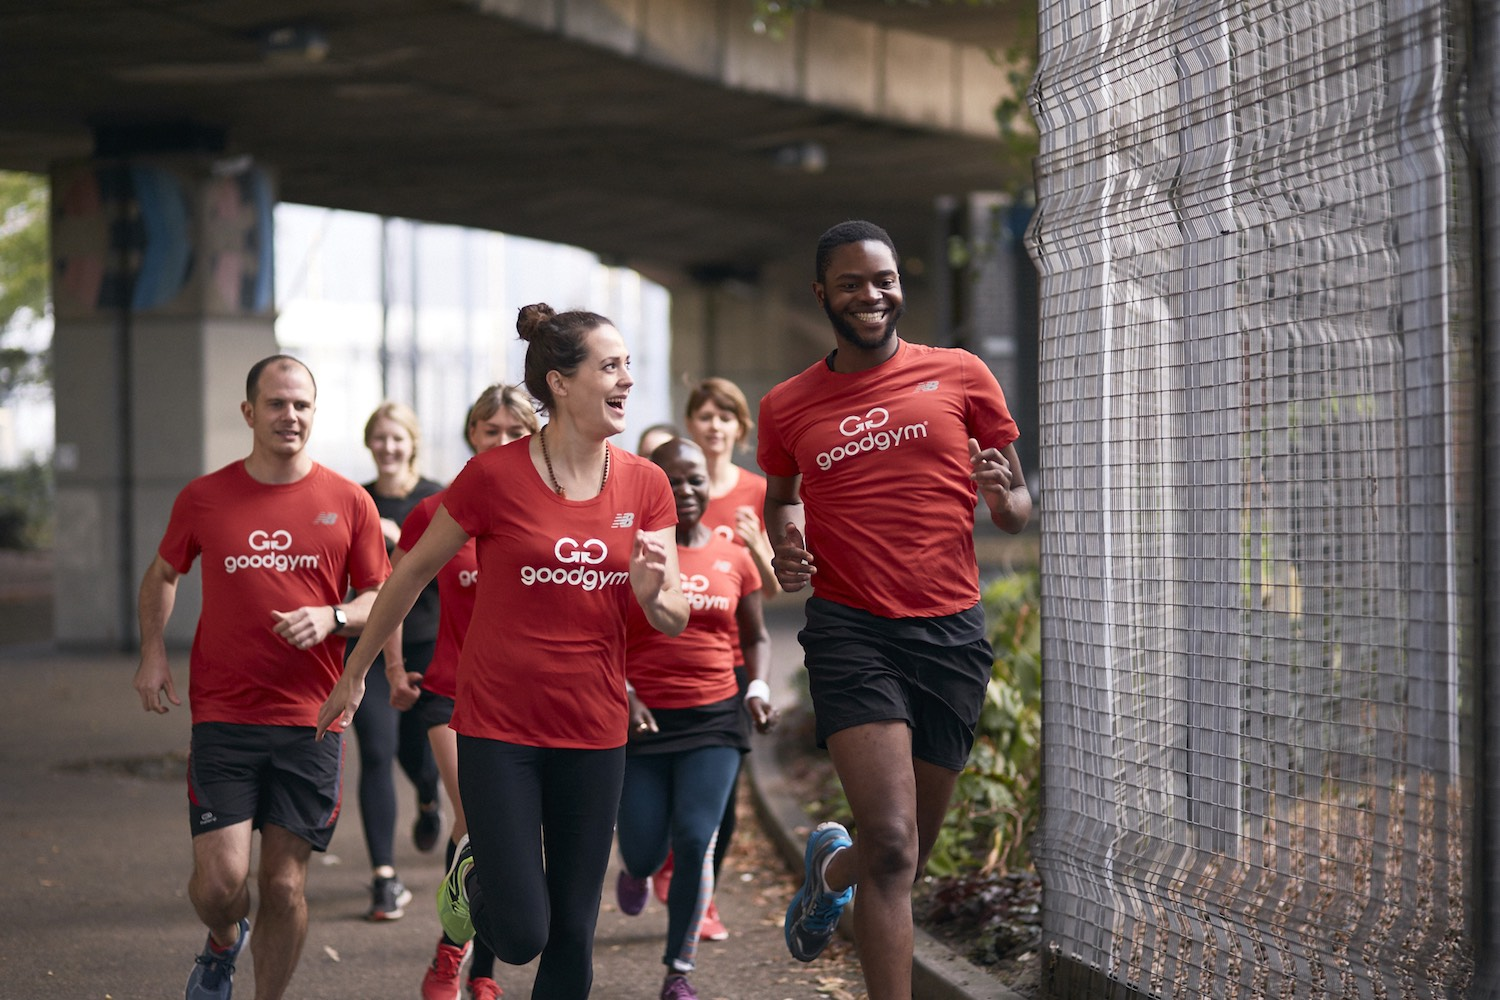
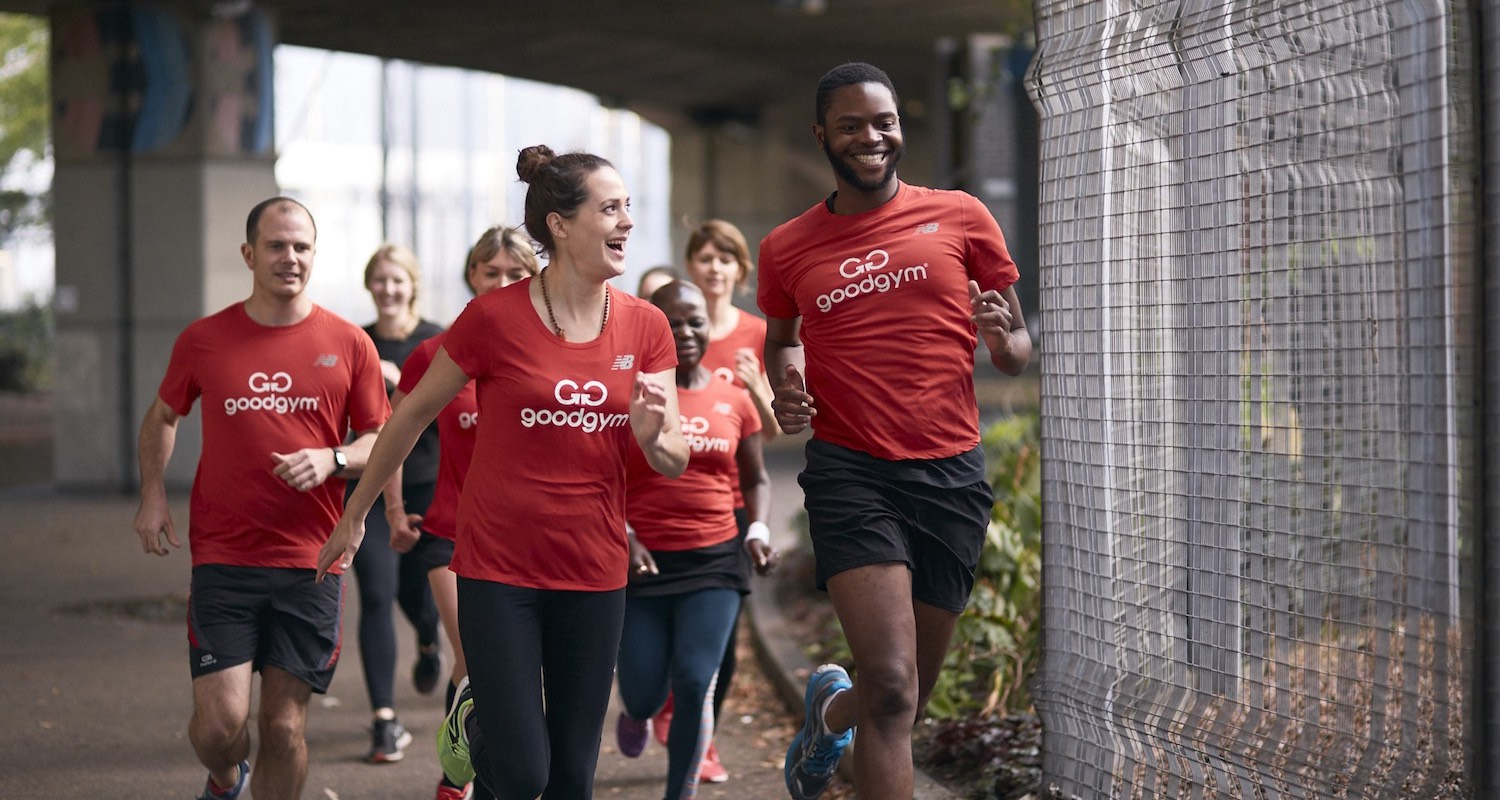
new version Sat 26 Nov 2016 16:34:10 GMT

diff --git a/stylesheets/application.css b/stylesheets/application.css
@@ -6344,55 +6344,75 @@ ul.search-filter li {
       color: white;
       font-size: 1.5rem; }
 
-/* line 1, components/_runs.scss */
-.run-splash {
+/* line 2, components/_runs.scss */
+.run-splash .run-splash-image {
   position: relative;
-  margin-bottom: 2rem; }
-  /* line 4, components/_runs.scss */
-  .run-splash img {
-    opacity: 0.6; }
-  /* line 12, components/_runs.scss */
-  .run-splash .slash {
-    width: 100%;
-    height: 5rem;
-    background-image: linear-gradient(to bottom left, transparent, transparent 49%, #ED1C24 49%, #ED1C24); }
-  /* line 17, components/_runs.scss */
-  .run-splash .outer-container {
-    background-color: #ED1C24; }
-  /* line 20, components/_runs.scss */
-  .run-splash .caption {
-    position: absolute;
-    bottom: 0;
-    left: 0;
-    right: 0;
-    width: 100%;
-    color: white;
-    line-height: 2.5rem; }
-    /* line 27, components/_runs.scss */
-    .run-splash .caption h1 {
-      font-size: 3.5rem;
-      text-shadow: 1px 1px 2px black; }
+  z-index: -1;
+  background: black; }
+/* line 7, components/_runs.scss */
+.run-splash img {
+  opacity: 0.6;
+  width: 100%; }
+/* line 11, components/_runs.scss */
+.run-splash .slash {
+  position: absolute;
+  bottom: 0;
+  left: 0;
+  right: 0;
+  width: 100%;
+  height: 5rem;
+  background-image: linear-gradient(to bottom left, transparent, transparent 49%, #ED1C24 49%, #ED1C24); }
+  @media (min-width: 768px) {
+    /* line 11, components/_runs.scss */
+    .run-splash .slash {
+      bottom: 5rem; } }
+  @media (min-width: 992px) {
+    /* line 11, components/_runs.scss */
+    .run-splash .slash {
+      bottom: 10rem; } }
+/* line 26, components/_runs.scss */
+.run-splash .run-splash-caption {
+  padding-bottom: 1rem;
+  margin-bottom: 2rem;
+  background-color: #ED1C24;
+  color: white;
+  line-height: 2.5rem; }
+  @media (min-width: 768px) {
+    /* line 26, components/_runs.scss */
+    .run-splash .run-splash-caption {
+      margin-top: -5rem; } }
+  @media (min-width: 992px) {
+    /* line 26, components/_runs.scss */
+    .run-splash .run-splash-caption {
+      margin-top: -10rem; } }
+  /* line 37, components/_runs.scss */
+  .run-splash .run-splash-caption h1 {
+    font-size: 3.5rem;
+    text-shadow: 1px 1px 2px black; }
+  /* line 42, components/_runs.scss */
+  .run-splash .run-splash-caption p {
+    font-size: 1.5rem; }
 
-/* line 38, components/_runs.scss */
+/* line 49, components/_runs.scss */
 .run-infographic h2 {
   font-size: 3rem; }
-/* line 41, components/_runs.scss */
+/* line 52, components/_runs.scss */
 .run-infographic h3 {
   font-size: 1rem;
   text-transform: uppercase; }
-/* line 45, components/_runs.scss */
+/* line 56, components/_runs.scss */
 .run-infographic img {
   width: 60px;
   margin-top: 2rem; }
-/* line 49, components/_runs.scss */
+/* line 60, components/_runs.scss */
 .run-infographic .media {
   padding-top: 1rem;
   border-top: 5px solid #ED1C24; }
-  /* line 52, components/_runs.scss */
+  /* line 63, components/_runs.scss */
   .run-infographic .media:first-child {
     border: none; }
 @media (min-width: 576px) {
-  /* line 57, components/_runs.scss */
+  /* line 68, components/_runs.scss */
   .run-infographic .media-container {
     margin-right: -15px;
     margin-left: -15px; }
@@ -6402,52 +6422,52 @@ ul.search-filter li {
       display: table;
       clear: both; } }
   @media (min-width: 576px) and (min-width: 576px) {
-    /* line 57, components/_runs.scss */
+    /* line 68, components/_runs.scss */
     .run-infographic .media-container {
       margin-right: -15px;
       margin-left: -15px; } }
   @media (min-width: 576px) and (min-width: 768px) {
-    /* line 57, components/_runs.scss */
+    /* line 68, components/_runs.scss */
     .run-infographic .media-container {
       margin-right: -15px;
       margin-left: -15px; } }
   @media (min-width: 576px) and (min-width: 992px) {
-    /* line 57, components/_runs.scss */
+    /* line 68, components/_runs.scss */
     .run-infographic .media-container {
       margin-right: -15px;
       margin-left: -15px; } }
   @media (min-width: 576px) and (min-width: 1200px) {
-    /* line 57, components/_runs.scss */
+    /* line 68, components/_runs.scss */
     .run-infographic .media-container {
       margin-right: -15px;
       margin-left: -15px; } }
 @media (min-width: 576px) {
-  /* line 60, components/_runs.scss */
+  /* line 71, components/_runs.scss */
   .run-infographic .media {
     float: left;
     width: 25%;
     border: none; }
-  /* line 64, components/_runs.scss */
+  /* line 75, components/_runs.scss */
   .run-infographic .media-left {
     padding-right: 10px;
     width: 100%;
     display: block;
     border-bottom: 10px solid #ED1C24;
     margin-bottom: 1rem; }
-    /* line 71, components/_runs.scss */
+    /* line 82, components/_runs.scss */
     .run-infographic .media-left img {
       margin: 1rem 2rem; }
-  /* line 75, components/_runs.scss */
+  /* line 86, components/_runs.scss */
   .run-infographic .media-body {
     padding: 0rem 1rem; } }
 
-/* line 83, components/_runs.scss */
+/* line 94, components/_runs.scss */
 #trainers .carousel-control.right, #trainers .carousel-control.left {
   background-image: none; }
-/* line 86, components/_runs.scss */
+/* line 97, components/_runs.scss */
 #trainers .carousel-control .icon-next, #trainers .carousel-control .icon-prev {
   color: black; }
-/* line 90, components/_runs.scss */
+/* line 101, components/_runs.scss */
 #trainers img {
   width: 100px;
   height: 100px;

diff --git a/group-runs/index.html b/group-runs/index.html
@@ -38,19 +38,19 @@
 
 
     <div class='run-splash'>
-  <img src="/images/group-run.jpg" class="img-fluid" alt="Group run" />
-  <div class='caption'>
+  <div class='run-splash-image'>
+    <img src="/images/group-run.jpg" class="img-fluid" alt="Group run" />
     <div class='slash'></div>
-    <div class='outer-container'>
-      <div class='container'>
-        <h1 class='strong'>Group runs</h1>
-        <p class='lead'>
-          We run in a group to a local organisation that needs help, complete a
-          task like painting a fence or planing a tree, have a fun fitness session,
-          and run back in 90 minutes. All fitness levels are welcome and we never
-          leave anyone behind.
-        </p>
-      </div>
+  </div>
+  <div class='run-splash-caption'>
+    <div class='container'>
+      <h1 class='strong'>Group runs</h1>
+      <p>
+        We run in a group to a local organisation that needs help, complete a
+        task like painting a fence or planing a tree, have a fun fitness session,
+        and run back in 90 minutes. All fitness levels are welcome and we never
+        leave anyone behind.
+      </p>
     </div>
   </div>
 </div>
